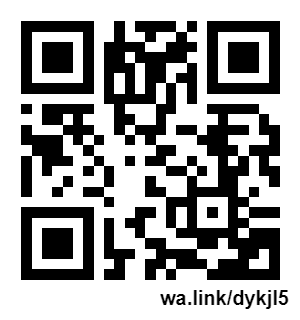
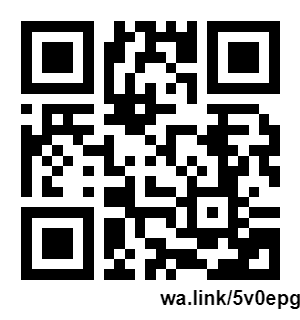
perbarui link n qrcode whatsapp

diff --git a/index.html b/index.html
@@ -298,7 +298,7 @@
               <span>Chat WhatsApp</span>
             </div>
             <div class="d-flex align-items-center mb-3">
-              <a href="https://wa.link/dykjl5" class="btn btn-outline-success rounded-4 btn-lg me-2">
+              <a href="https://wa.link/5v0epg" class="btn btn-outline-success rounded-4 btn-lg me-2">
                 <img src="img/whatsapp-icon.png" alt="WhatsApp" class="medsos-icon">
                 <span>+62 812 3000 2602</span>
               </a>
